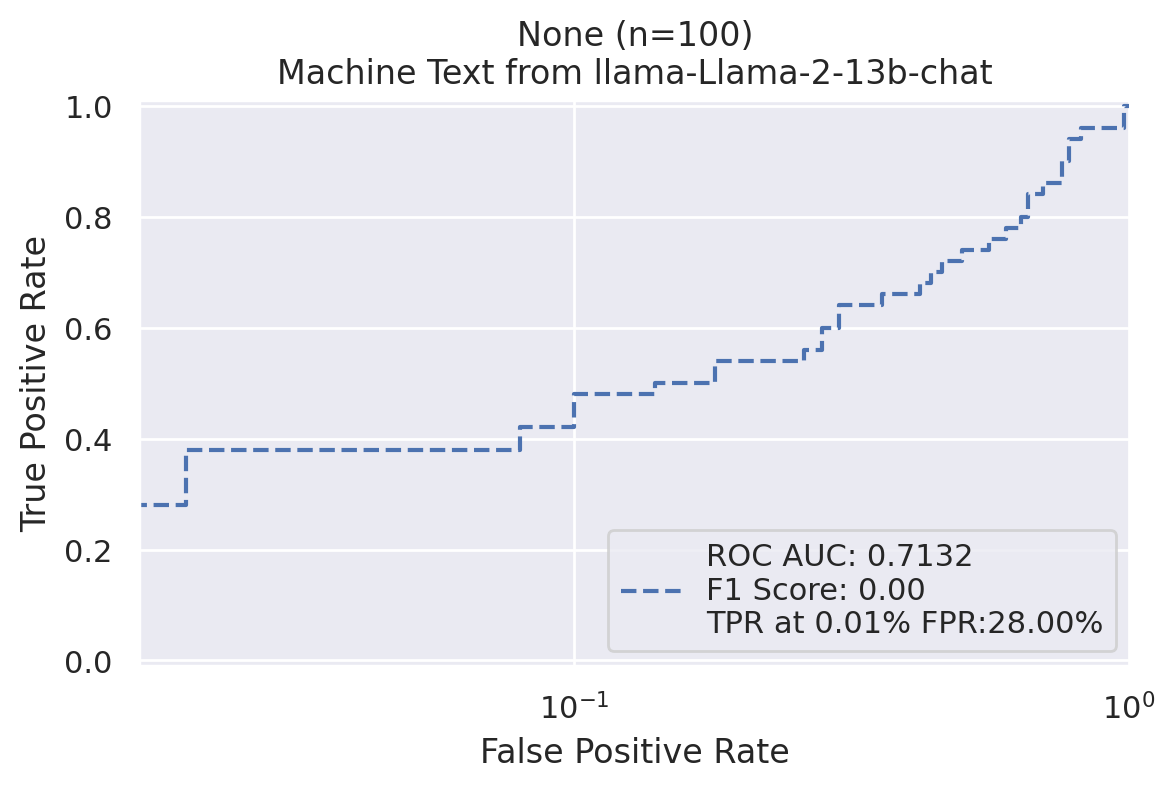
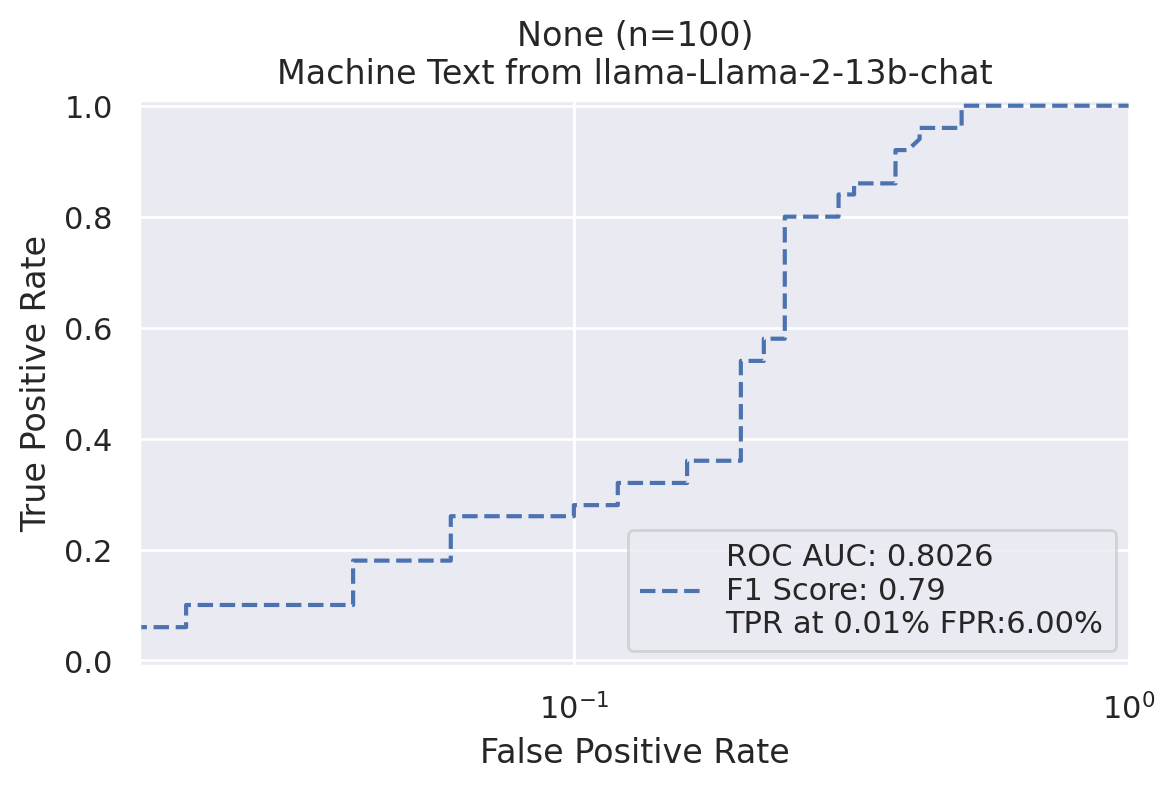
Full push for other server.

diff --git a/binoculars/detector.py b/binoculars/detector.py
@@ -17,29 +17,28 @@ huggingface_config = {
 }
 
 # selected using Falcon-7B and Falcon-7B-Instruct at bfloat16
-BINOCULARS_ACCURACY_THRESHOLD = 0.9015310749276843  # optimized for f1-score
+BINOCULARS_ACCURACY_THRESHOLD = 0.6015310749276843  # optimized for f1-score
 BINOCULARS_FPR_THRESHOLD = 0.8536432310785527  # optimized for low-fpr [chosen at 0.01%]
 
 DEVICE_1 = "cuda:0" #  if torch.cuda.is_available() else "cpu"
 DEVICE_2 = "cuda:0" #  if torch.cuda.device_count() > 1 else DEVICE_1
 
 
-
 def enable_mc_dropout(model):
     for module in model.modules():
-        print(module)
         if module.__class__.__name__.startswith('Dropout'):
             module.train()
-            module.p=0.15
-        
+            module.p=0.2
+
         if module.__class__.__name__.startswith('FalconAttention'):
-            module.train()
-            module.attention_dropout.p= 0.1
+            # module.train()
+            # module.attention_dropout.p= 0.2 
+            pass
 
 class Binoculars(object):
     def __init__(self,
                  observer_name_or_path: str = "tiiuae/falcon-7b",
-                 performer_name_or_path: str = "tiiuae/falcon-7b-instruct",
+                 performer_name_or_path: str = "tiiuae/falcon-7b",
                  use_bfloat16: bool = True,
                  max_token_observed: int = 512,
                  mode: str = "low-fpr",
@@ -61,7 +60,9 @@ class Binoculars(object):
                                                                     trust_remote_code=True,
                                                                     torch_dtype=torch.bfloat16 if use_bfloat16
                                                                     else torch.float32,
-                                                                    token=huggingface_config["TOKEN"]
+                                                                    token=huggingface_config["TOKEN"],
+                                                                    attention_dropout=0.3,
+                                                                    hidden_dropout=0.3,
                                                                     )
         
         #self.observer_model.eval()
@@ -124,30 +125,22 @@ class Binoculars(object):
         ppl = perplexity(encodings, performer_logits)
         enable_mc_dropout(self.performer_model)
         
-        n_samples =5
-        
-        running_total = torch.zeros((performer_logits.shape), device=DEVICE_1)
-        for _ in range(n_samples):
-            outputs = self.performer_model(**encodings).logits
-            running_total += outputs 
+    
+        self.performer_model.train()
+        pred = []
+        #for _ in range(5):
+        logits = self.performer_model(**encodings.to(DEVICE_1)).logits
+        pred.append(logits)
 
-        
-        running_total /= 4
-        
-        bottom = entropy(running_total.to(DEVICE_1), performer_logits.to(DEVICE_1),
+        # pred = torch.stack(pred)
+        #pred = pred.mean(dim=0)
+
+        # pred = self.performer_model(**encodings.to(DEVICE_1)).logits
+        pred = pred[0]
+        x_ppl = entropy(performer_logits.to(DEVICE_1), pred.to(DEVICE_1),
                         encodings.to(DEVICE_1), self.tokenizer.pad_token_id)
-        """
-        ce_values = []
-        for pred in preds:
-            ce = entropy(performer_logits, pred, encodings.to(DEVICE_1), self.tokenizer.pad_token_id)
-            ce_values.append(ce)"""
-
-        # print(ce_values)
-        # bottom = sum(ce_values) / len(ce_values)
         
-
-
-        binoculars_scores = ppl / bottom
+        binoculars_scores = ppl / x_ppl
 
         binoculars_scores = binoculars_scores.tolist()
         return binoculars_scores[0] if isinstance(input_text, str) else binoculars_scores
